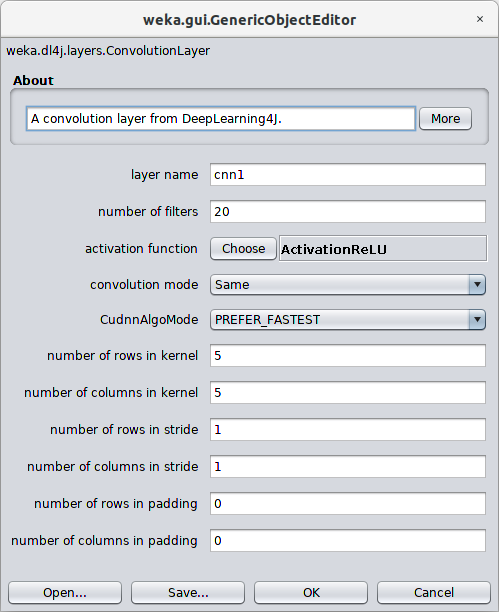
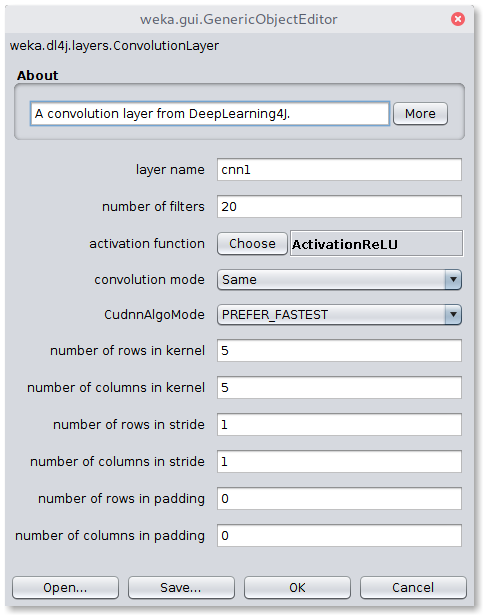
Update docs
- Add GUI MNIST LeNet example
- Update GUI images with shadows

diff --git a/docs/examples/classifying-mnist.md b/docs/examples/classifying-mnist.md
@@ -122,3 +122,28 @@ eval.crossValidateModel(clf, data, numFolds, new Random(1));
 System.out.println("% Correct = " + eval.pctCorrect());
 ```
 
+## GUI: LeNet MNIST Evaluation
+
+
+The first step is to open the MNIST meta ARFF file in the Weka Explorer `Preprocess` tab via `Open File`. A randomly sampled MNIST dataset of 420 images is provided in the WekaDeeplearning4j package for testing purposes (`$WEKA_HOME/packages/wekaDeeplearning4j/datasets/nominal/mnist.meta.minimal.arff`). In the next step, the `Dl4jMlpClassifier` has to be selected as `Classifier` in the `Classify` tab. A click on the classifier will open the configuration window
+
+![Classifier](../img/gui/mlp-classifier.png)
+
+To correctly load the images it is further necessary to select the `Image-Instance-Iterator` as `instance iterator` and point it to the MNIST directory that contains the actual image files (`$WEKA_HOME/packages/wekaDeeplearning4j/datasets/nominal/mnist-minimal/`). 
+
+![Image Instance Iterator](../img/gui/image-instance-iterator.png)
+
+Select `LeNet` from the `zooModel` option as network architecture. 
+
+![LeNet](../img/gui/layer-array.png)
+
+A holdout evaluation strategy has to be selected in the `Test options` box via `Percentage split`, which can be set to 66% for a 2/3 - 1/3 split. The classifier training is now ready to be started with the `Start` button. The resulting classifier evaluation can be examined in the `Classifier output` box. Here, an evaluation summary is shown for the training and testing split. 
+
+The above setup, trained for 50 epochs with a batch size of 256 produces a classification accuracy of 93.71% on the test data after training on the smaller sampled MNIST dataset and a score of 98.57% after training on the full MNIST dataset.
+
+| MNIST   |  Train Size |  Test Size |  Train Accuracy |  Test Accuracy | Train Time      |
+| -----   | ----------: | ---------: | --------------: | -------------: | --------------: |
+| Sampled |         277 |        143 |          100.0% |         93.71% | 48.99s          |
+| Full    |      60.000 |     10.000 |          98.76% |         98.57% | 406.30s         |
+
+Table 1: Results for training time and classification accuracy after 50 epochs for both the sampled and the full MNIST training dataset using the LeNet architecture. Experiments were run on a NVIDIA TITAN X Pascal GPU.
